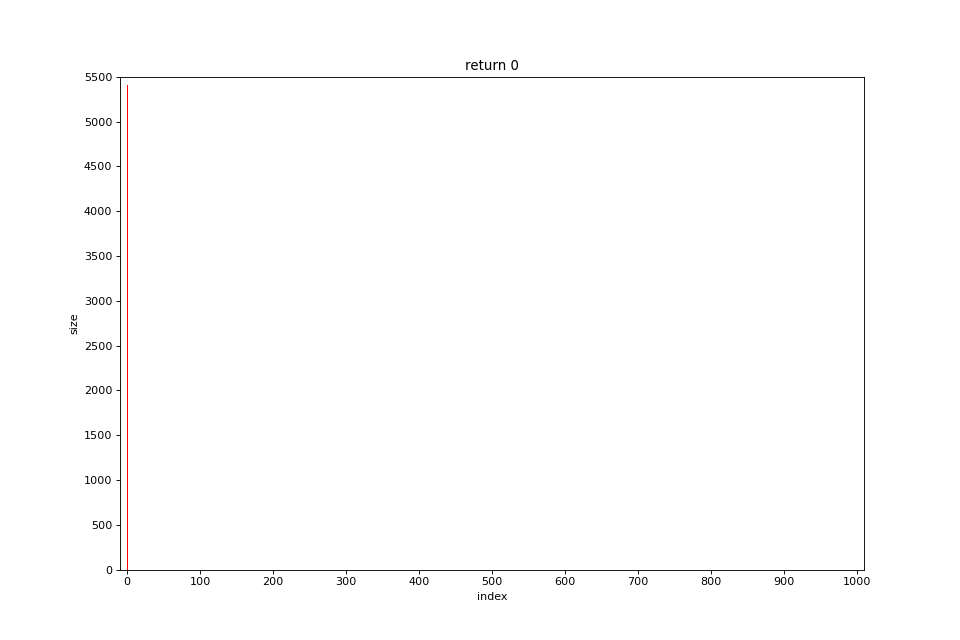
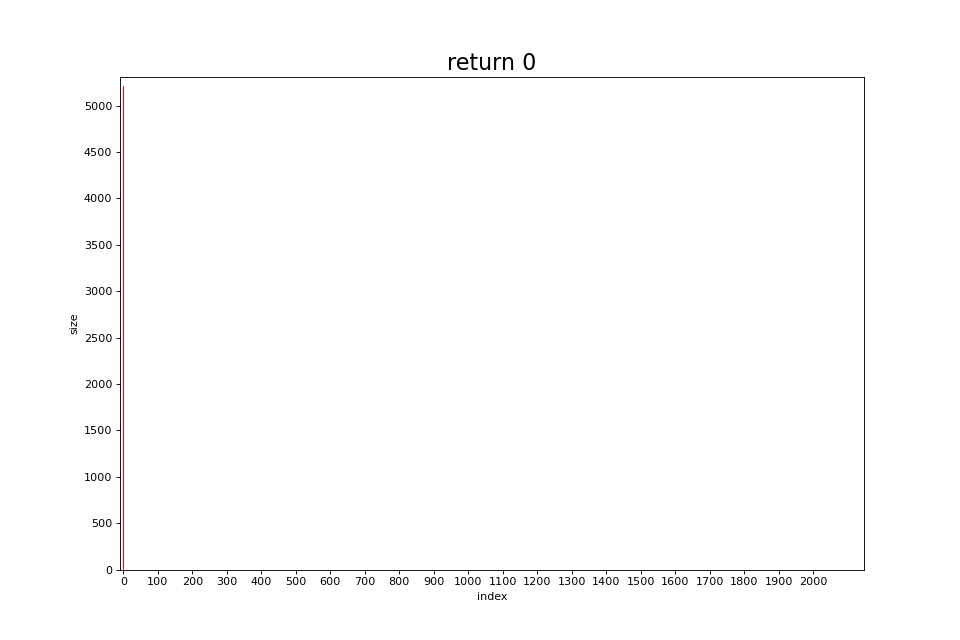
check font size

diff --git a/src/build_csv.py b/src/build_csv.py
@@ -4,18 +4,18 @@ from matplotlib.pyplot import figure
 
 figure(figsize=(12, 8), dpi=80, edgecolor='k')
 
-data = pd.read_csv("Results/hash_8.csv")
+data = pd.read_csv("Results/hash_tables/hash_1.csv")
 
-plt.xlim([-10, max(data['index']) + 10])
-plt.ylim([0, max(data['size']) + 10])
+plt.xlim([-10, max(data['index']) + 100])
+plt.ylim([0, max(data['size']) + 100])
 
 plt.xticks(range(0, max(data['index']) + 10, 100))
-plt.yticks(range(0, max(data['size']) + 10, 2))
+plt.yticks(range(0, max(data['size']) + 10, 500))
 
 plt.bar(data['index'], data['size'], color='red')
 
 plt.xlabel("index")
 plt.ylabel("size")
-plt.title("return crc32(word)")
+plt.title("return 0", size=20)
 
-plt.savefig("Images/charts/hash_func_8.png")
+plt.savefig("Images/charts/hash_func_1.png")

diff --git a/src/hash_table/hash_table.h b/src/hash_table/hash_table.h
@@ -6,7 +6,7 @@
 #include <stdio.h>
 #include "string_list.h"
 
-const size_t HASH_TABLE_SIZE = 2048;
+const size_t HASH_TABLE_SIZE = 101;
 const size_t NUMBER_OF_HASH_FUNC = 8;
 const size_t MAX_WORD_LEN = 32;
 
@@ -29,7 +29,7 @@ int myStrcmp(Word a, Word b);
 size_t hashFuncCRC32fast(char *str, size_t size);
 size_t hashFuncRolAsm(char *str, size_t size);
 
-extern "C" size_t hashFuncSumASCIIAsm(char *str, size_t size);
+// extern "C" size_t hashFuncSumASCIIAsm(char *str, size_t size);
 
 size_t hashFuncZero(char *str, size_t size);
 size_t hashFuncLetterASCII(char *str, size_t size);

diff --git a/src/measure/measure.cpp b/src/measure/measure.cpp
@@ -20,7 +20,7 @@ int main(const int argc, const char *argv[]) {
 
     size_t (*hash_functions[NUMBER_OF_HASH_FUNC])(char *, size_t) =
     {
-    hashFuncZero, hashFuncLetterASCII, hashFuncLength, hashFuncSumASCII, hashFuncRol, hashFuncRor, hashFuncDjb2Asm, hashFuncCRC32
+    hashFuncZero, hashFuncLetterASCII, hashFuncLength, hashFuncSumASCII, hashFuncRol, hashFuncRor, hashFuncDjb2, hashFuncCRC32
     };
 
     HashTableStr table = {};

diff --git a/README.md b/README.md
@@ -3,15 +3,14 @@
 ## Задача
 
 - Часть 1
-    - написать хэш-таблицу для строк фиксированного размера и несколько хэш-функций для неё
+    - написать хэш-таблицу для строк и несколько хэш-функций для неё
     - выяснить, какая хэш-функция дает лучшее распределение
-    - посмотреть, как транслируется код хэш-функций, использующих циклический сдвиг
 - Часть 2
     - оптимизировать функции, которые больше всего влияют на время работы программы, использовать для этого три метода оптимизации
         - функции, написанные на ассемблере
         - ассемблерные вставки
         - SIMD инструкции
-    - рассчитать КПД оптимизации по формуле: $\frac{коэффициент \ ускорения}{кол-во \ ассемблерных \ инструкций} * 1000$
+    - при оптимизации минимизировать использование ассемблерных инструкций и рассчитать КПД оптимизации по формуле: $\frac{коэффициент \ ускорения}{кол-во \ ассемблерных \ инструкций} * 1000$
 
 ## Ход работы
 
@@ -21,6 +20,10 @@
 
 <figure>
 <img src="Images/charts/merged_3:3.png">
+</figure>
+
+<figure>
+<img src="Images/charts/hash_func_1.png.png">
 </figure>
 
 ### Исходники графиков
